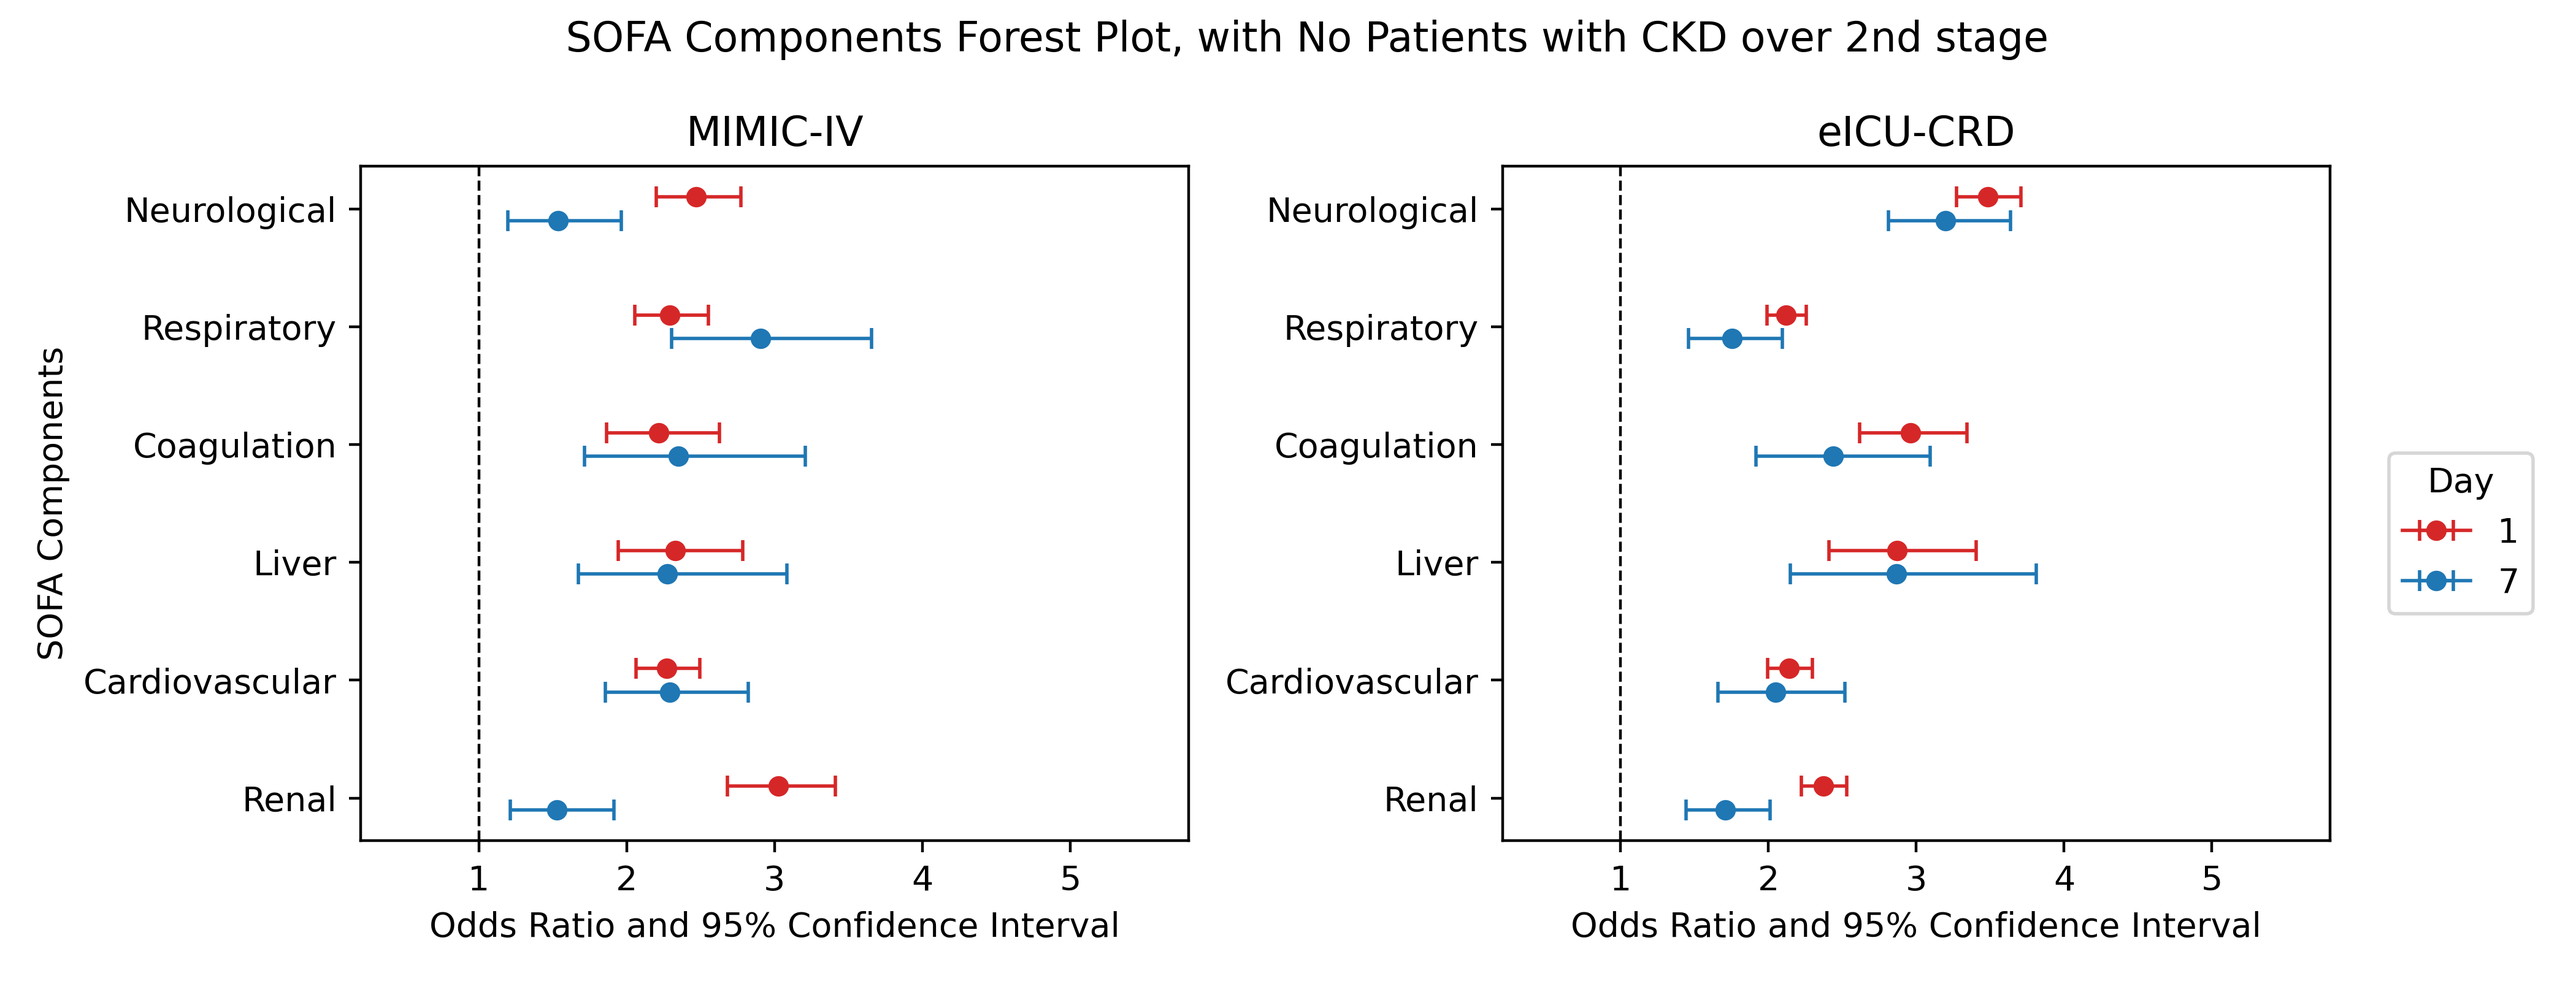
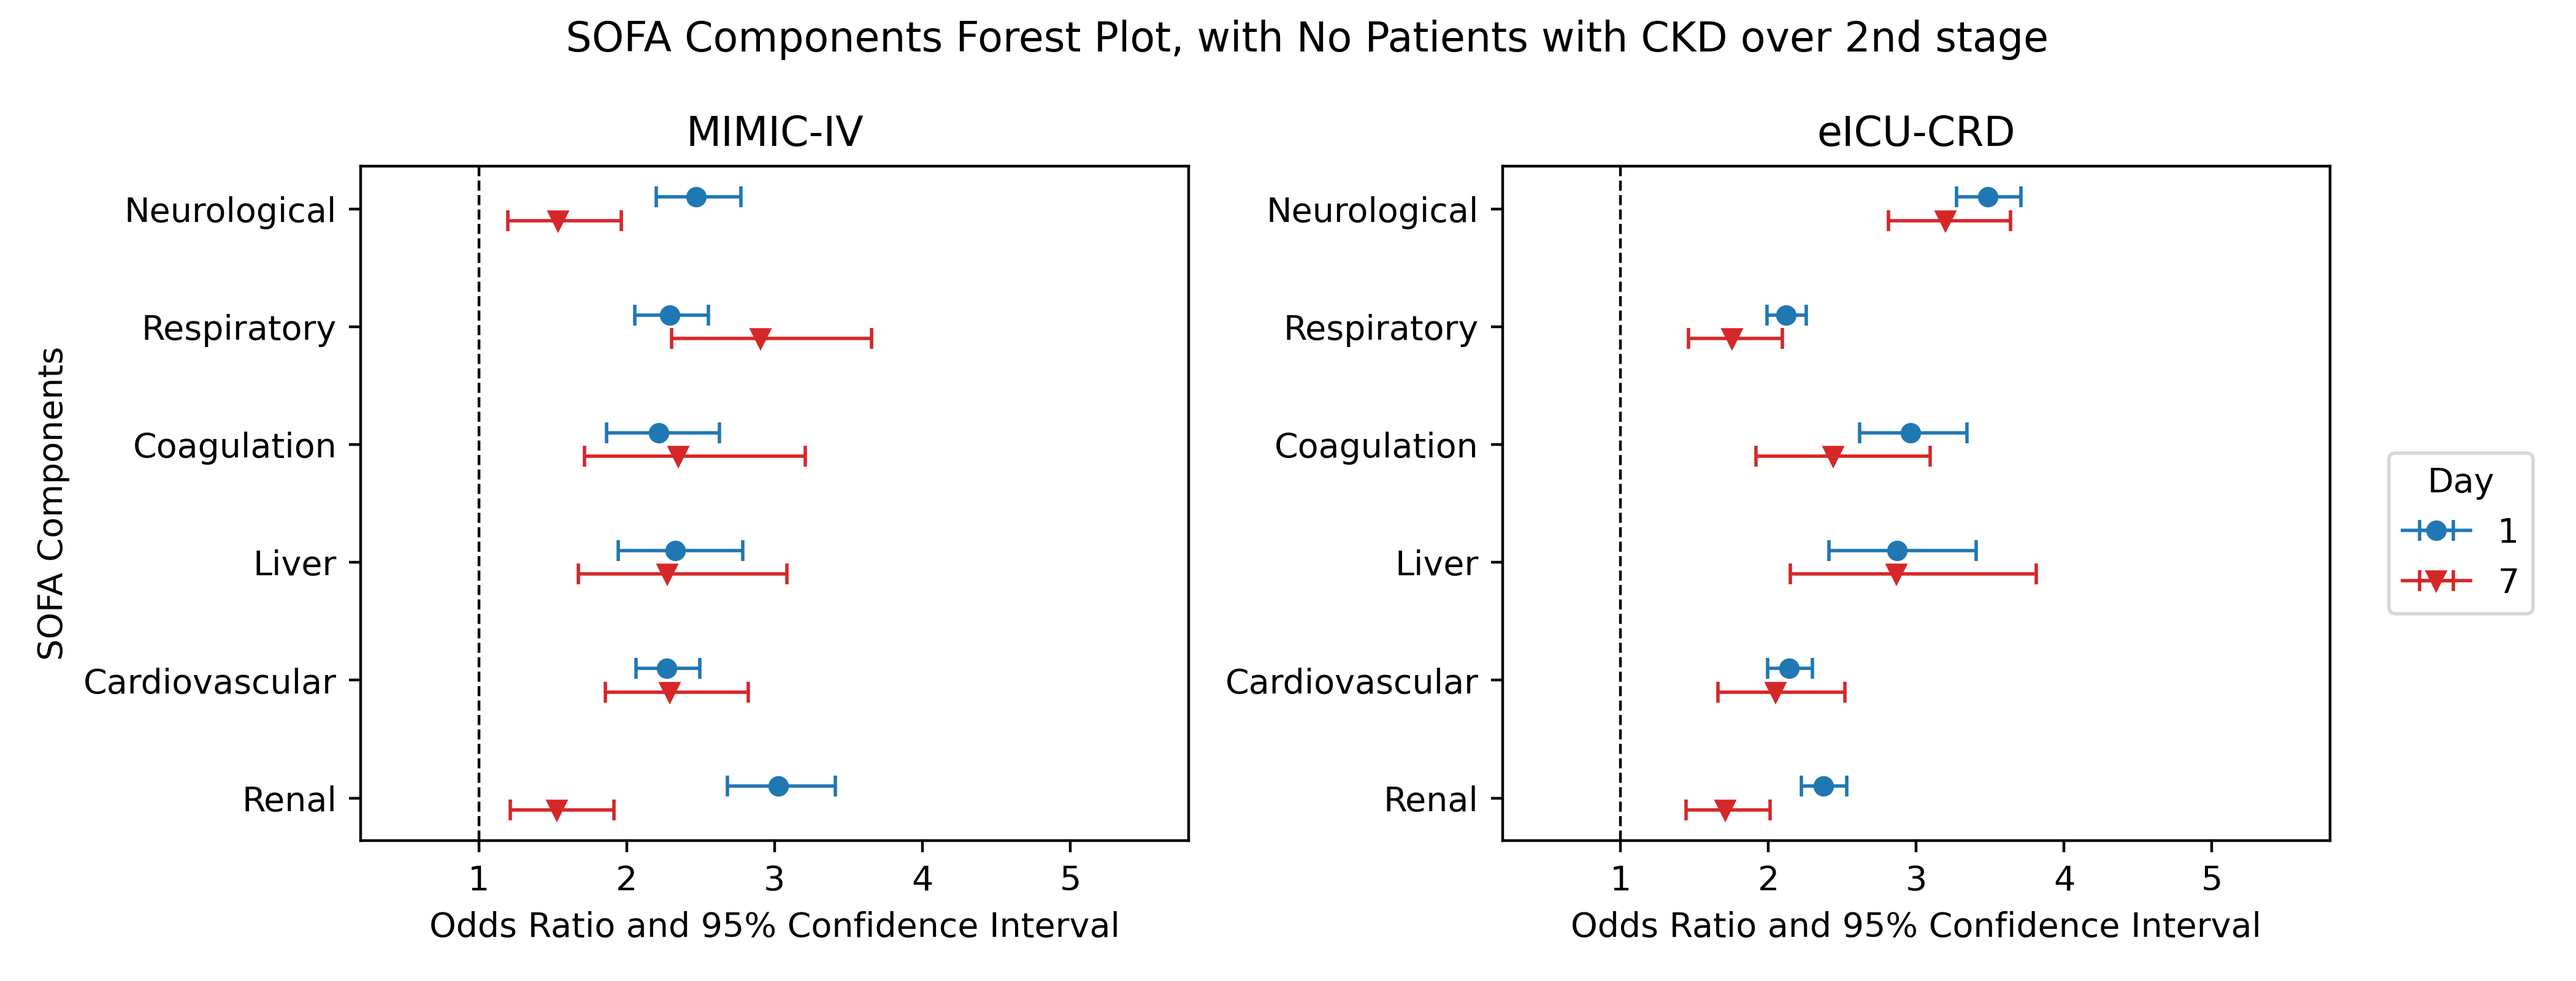
Modify Plots to switch colors and have different markers

diff --git a/src/py/plot_or_results.py b/src/py/plot_or_results.py
@@ -17,18 +17,18 @@ for h in days.keys():
                 f"renal_{h}Abnormal": "Renal"
                }
 
-sens_analy = {"all": "All Patients",
-              "cirrhosis": "No Cirrhosis Patients",
-              "ckd": "No Patients with CKD over 2nd stage ",
-              "copd_asthma": "No COPD Nor Asthma Patients",
-              "heart_failure": "No CHF Patients"
+sens_analy = {"all": ["All Patients",],
+              "cirrhosis": ["No Cirrhosis Patients", "Liver"],
+              "ckd": ["No Patients with CKD over 2nd stage", "Renal"],
+              "copd_asthma": ["No COPD Nor Asthma Patients", "Respiratory"],
+              "heart_failure": ["No CHF Patients", "Cardiovascular"]
              }
 
 cohorts = {"MIMIC": "MIMIC-IV",
           "eICU": "eICU-CRD"
           }
 
-colors = ["tab:red", "tab:blue"]
+colors = ["tab:blue", "tab:red"]
 markerstyles = ['o', 'v']
 daysoffset = [.1,-.1]
 
@@ -46,7 +46,7 @@ for s, s_name in sens_analy.items():
 
         for j, (h, d) in enumerate(days.items()):
 
-            df = pd.read_csv(f"results/glm/sens_analyses/{c}_{h}_{s}.csv")
+            df = pd.read_csv(f"results/glm/{c}_{h}_{s}.csv")
             df = df.rename(columns={"Unnamed: 0": "comp"})
 
             for (comp, comp_name), y in zip(comps[h].items(), yy): 
@@ -61,10 +61,10 @@ for s, s_name in sens_analy.items():
                     lbl = None
 
                 ax[i].errorbar(x=row['OR'], y=y+daysoffset[j], xerr=ci, \
-                               ecolor=colors[j], color=colors[j], \
+                               ecolor=colors[j], color=colors[j], marker=markerstyles[j], \
                                capsize=3, \
                                label = lbl, \
-                               linewidth=1, marker='o', \
+                               linewidth=1, \
                                markersize=5, mfc=colors[j], mec=colors[j])
 
         ax[i].set_title(c_name)
